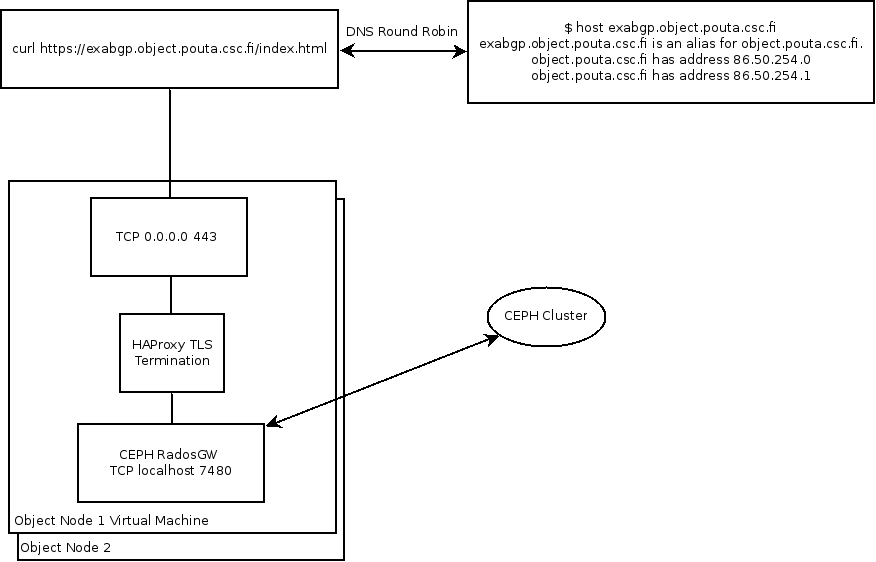
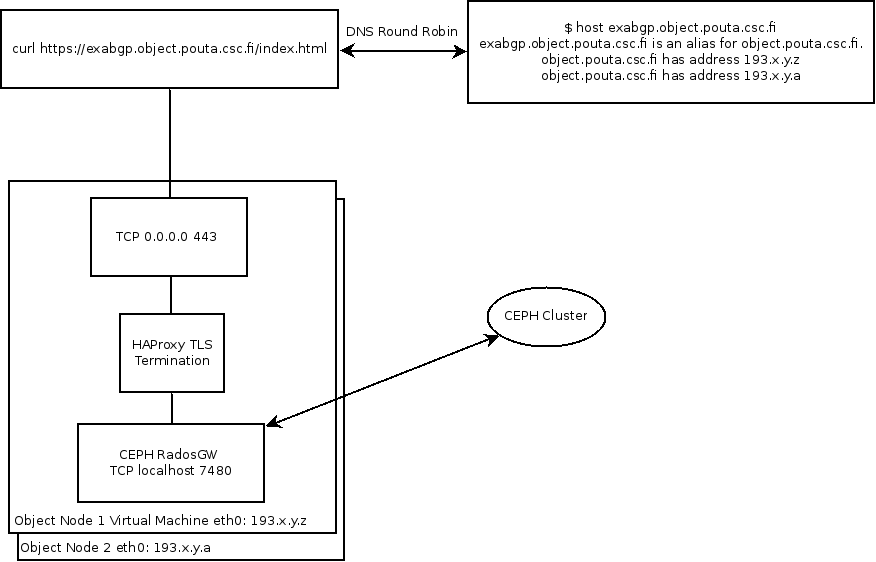
pictures and ordering

Changed region(s): [[0.6164, 0.0907, 0.9247, 0.1512], [0.1233, 0.968, 0.2466, 0.9982], [0.2466, 0.9075, 0.339, 0.9377]]

diff --git a/index.html b/index.html
@@ -44,7 +44,7 @@ Press **→** one or more times to select topic.
 						Invisible Maintenance<br />with ExaBGP<br /> <font size="+2">FUNET Technical Days 2018 <br /> Johan Guldmyr & CSC Pouta Cloud Team</font>
 					</section>
 					<section>
-						This is part of a technical series of blog post where the <a href="https://research.csc.fi/cloud-computing" target="_blank">CSC Pouta Cloud Team</a> illustrates with words and sometimes figures how to do things with our <a href="https://research.csc.fi/pouta-object-storage" target="_blank">object storage</a>.
+						Credits to FUNET, CSC Cloud and Network Team
 
 					</section>
 					
@@ -67,6 +67,15 @@ curl https://cats.object.pouta.csc.fi/cat.jpg
 </pre>
 
 If it's a picture you get the picture.
+					</section>
+					<section>
+						<a href="https://research.csc.fi/pouta-object-storage" target="_blank">https://research.csc.fi/pouta-object-storage</a> <br />:
+						"Object storage is a cloud storage service, where you can store and retrieve data over HTTPS. This is not tied to any individual virtual machines. The data can be made accessible from anywhere, inside and outside cPouta. For those familiar with commercial cloud services, the Amazon S3 is an example of an object storage service."
+					</section>
+				</section>
+				<section>
+					<section>
+						<h1> traffic flow </h1>
 					</section>
 					<section>
 						curl https://exabgp.object.pouta.csc.fi/index.html > <br />
@@ -97,8 +106,8 @@ If it's a picture you get the picture.
 						<img src="exabgp_traffic_diagram.png">
 					</section>
 					<section>
-						The client gets an IP. <br />
-						The IP is bound to a normal Ethernet interface in a Linux Virtual Machine. < br />
+						Client resolves the DNS into an IP. <br />
+						The IP is bound to a normal Ethernet interface in a Linux Virtual Machine.
 					</section>
 
 
@@ -106,11 +115,12 @@ If it's a picture you get the picture.
 				<section>
 					<section>
 	
-					<h1> More details </h1>
+					<h1> Why change?</h1>
 					</section>
 					<section>
 
-						Deets
+						DNS round robin decent for load balancing <br />
+						But for failover & High Availability this was found lacking.
 
 					</section>
 				</section>
@@ -131,7 +141,7 @@ No changes to haproxy / radosgw at all?
 					</section>
 
 					<section>
-						<img src="exabgp_openstack.png">
+						<img src="exabgp_traffic_diagram_after.png">
 					</section>
 
 					<section>
@@ -161,8 +171,8 @@ No changes to haproxy / radosgw at all?
 					The info from the healthcheck during normal operation on node1 looks like:
 
 <pre>
-announce route 10.1.2.2/32 next-hop 192.168.2.2 med 120
-announce route 10.1.2.3/32 next-hop 192.168.2.2 med 130
+announce route 86.50.254.0/32 next-hop 193.x.y.z med 120
+announce route 86.50.254.1/32 next-hop 193.x.y.z med 130
 </pre>
 					</section>
 					<section>
@@ -170,8 +180,8 @@ announce route 10.1.2.3/32 next-hop 192.168.2.2 med 130
 					On node2 it’s almost the same except that the MED values (cost for the route, lower is more preferred) are reversed:
 
 <pre>
-announce route 10.1.2.2/32 next-hop 192.168.2.3 med 130
-announce route 10.1.2.3/32 next-hop 192.168.2.3 med 120
+announce route 86.50.254.0/32 next-hop 193.x.y.a med 130
+announce route 86.50.254.1/32 next-hop 193.x.y.a med 120
 </pre>
 					</section>
 					<section>
@@ -181,13 +191,24 @@ announce route 10.1.2.3/32 next-hop 192.168.2.3 med 120
 
 					When we have disabled the node (this is in ExaBGP’s built-in healthcheck.py done by touching a file):
 <pre>
-announce route 10.1.2.2/32 next-hop 192.168.2.3 med 2200 community [ 65535:0 ]
-announce route 10.1.2.3/32 next-hop 192.168.2.3 med 2210 community [ 65535:0 ]
+announce route 86.50.254.0/32 next-hop 193.x.y.a med 2200 community [ 65535:0 ]
+announce route 86.50.254.1/32 next-hop 193.x.y.a med 2210 community [ 65535:0 ]
 </pre>
 					</section>
 
 					<section>
 						<h1> Health Check details </h1>
+					</section>
+
+					<section>
+						ExaBGP 3.4 is the current recommended version. 
+
+						We use the built-in healthcheck.py of ExaBGP. This is a python script which checks if the CEPH http daemon (civetweb) responds to a curl GET request and depending on a good or bad result writes different announce lines to stdout.
+					</section>
+					<section>
+
+						It’s possible to easily disable a node in ExaBGP by touching a file. Because we wanted to send a community ( we use the well-known “BGP Graceful Shutdown” community 65535:0 ) with the announcement when we disable a node we made some changes to the healthcheck.py script with pull requests to ExaBGP
+
 					</section>
 
 				</section>
@@ -204,9 +225,46 @@ announce route 10.1.2.3/32 next-hop 192.168.2.3 med 2210 community [ 65535:0 ]
 				<section>
 				<h1> Graph during maintenance </h1>
 				Graphs / Process
+				</section>
+
+				<section>
+					<section>
+					<h1> end scene</h1>
+					</section>
+					<section>
+						No changes or restart of the service were needed.
+					</section>
+					<section>
+					
+					We use puppet to configure our object servers. This code is unfortunately not (yet) public. If anybody wants more details about how it is done with puppet please get in touch. In summary we:
+					</section>
+					<section>
+
+	Add a dummy interface with the service IPs. <br />
+	Use modprobe config to load the dummy kernel module AND runs "/sbin/ip link add fake0 type dummy" on boot <br />
+	A network-scripts/ifcfg-fake0 (we run CentOS7) with several IP addresses and /32 netmasks <br />
+	We used fake0 instead of dummy0 because of puppet facts ordering issues <br />
+	Setup a python virtualenv where we install exabgp <br />
+	Add a systemd that runs exabgp from within this virtualenv <br />
+					</section>
+
+					<section>
+
+					We add the IP on the dummy interface because that is networking best practice :)
+					
+					The IP addresses are not used in the machine’s local routing table. So “ip route” does not have them and on CentOS 7 if you run tcpdump you need to use it on the normal interface, like "$ tcpdump -i eth0 ‘host 86.50.254.0’"
+					</section>
+					<section>
+
+					 * magic invisibility maintenance caveat: Some clients don’t like when a connection suddenly changes from talking with one server to another. We have done a bit of testing and have seen that python-swiftclient (v3.5.0) reads get an ECONNRESET error. Uploads or writes however retry and works . The aws-cli works fine for both writes and reads.
+					 </section>
+				</section>
 				
 				<section>
 				<h1> Links and blogs </h1>
+
+				<a href="https://pouta.blog.csc.fi/2018/03/customer-invisible-maintenance-of-csc.html" target="_blank">https://pouta.blog.csc.fi/</a> <br />
+				<a href="https://research.csc.fi/pouta-object-storage" target="_blank">https://research.csc.fi/pouta-object-storage</a>
 				</section>
 				
 				<section>

diff --git a/README.md b/README.md
@@ -1,1 +1,1 @@
-This is a set of slides to introduce how to store a set of slides on a Ceph Object Storage S3 using reveal.js and awscli
+This is a set of slides to present how CSC Pouta Cloud Team uses ExaBGP for some extra HA of their object storage.
